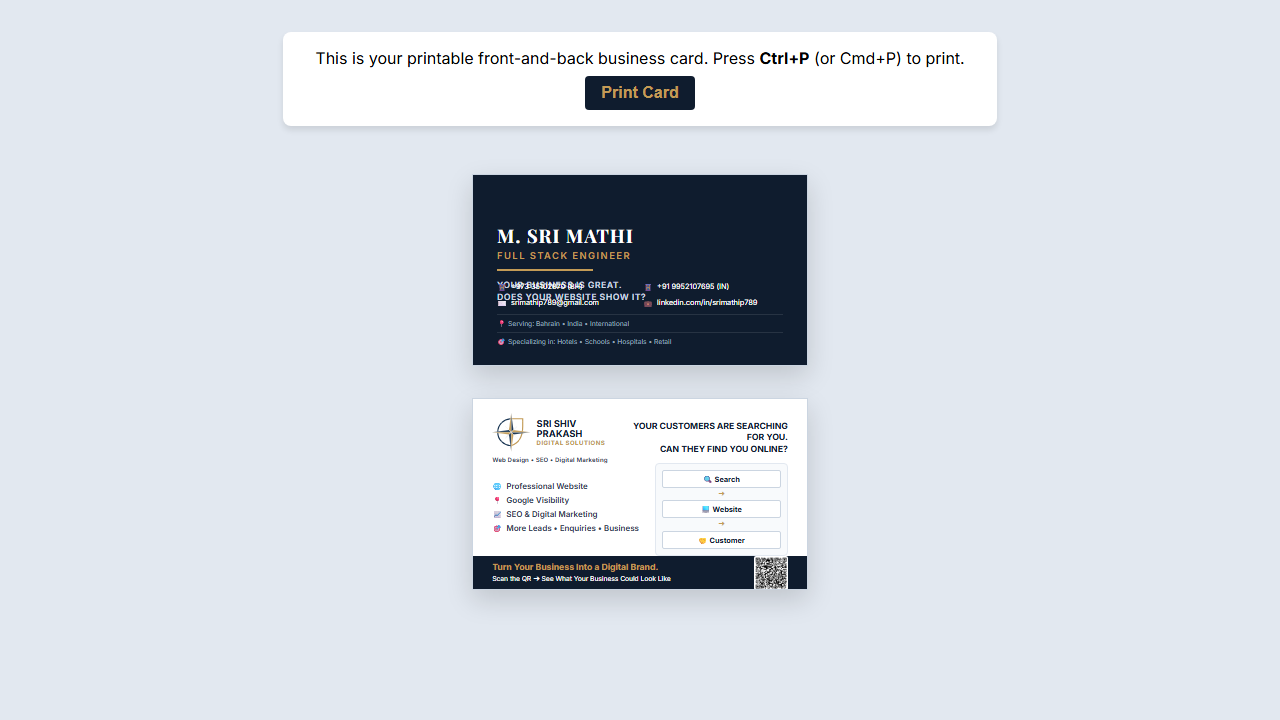
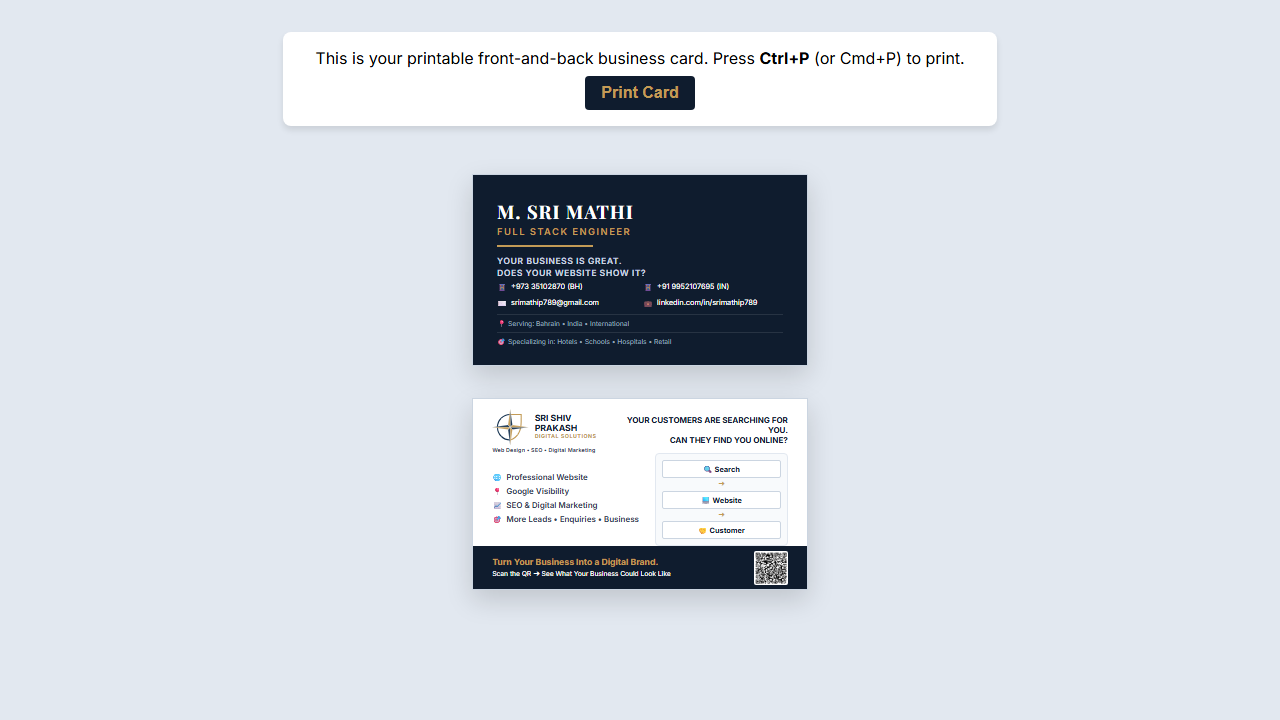
Fix overlapping contact information on front card

Changed region(s): [[0.375, 0.5806, 0.625, 0.825], [0.375, 0.275, 0.5, 0.4278]]

diff --git a/styles.css b/styles.css
@@ -71,12 +71,11 @@ body {
     padding: 0.2in 0.25in;
     display: flex;
     flex-direction: column;
-    justify-content: center;
-    position: relative;
+    justify-content: space-between;
 }
 
 .front-header {
-    margin-bottom: 0.15in;
+    margin-top: 0.05in;
 }
 
 .name {
@@ -111,10 +110,7 @@ body {
 }
 
 .front-footer {
-    position: absolute;
-    bottom: 0.2in;
-    left: 0.25in;
-    right: 0.25in;
+    width: 100%;
 }
 
 .contact-grid {
